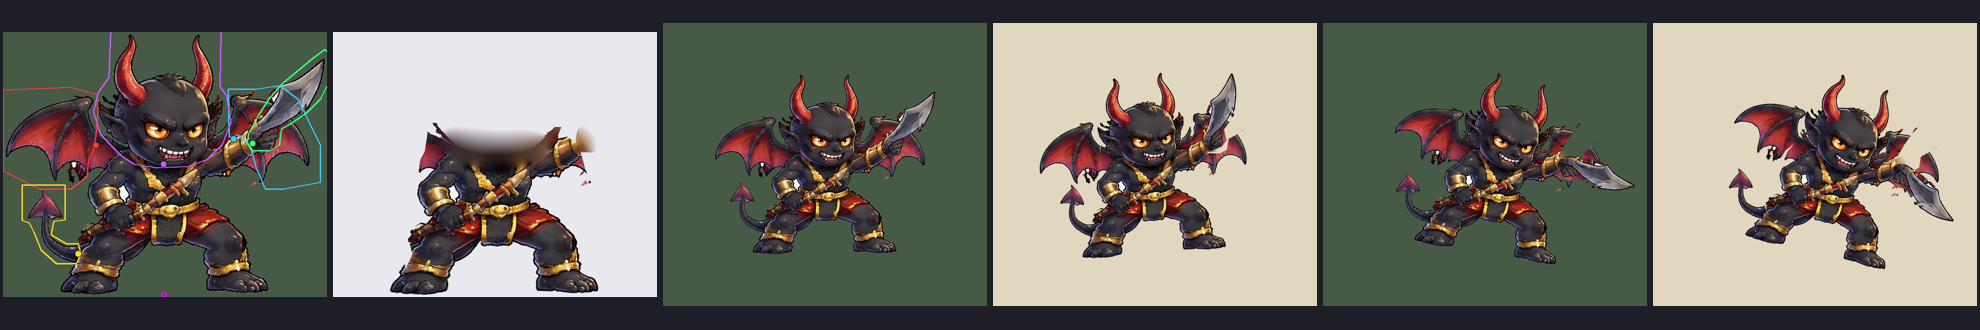
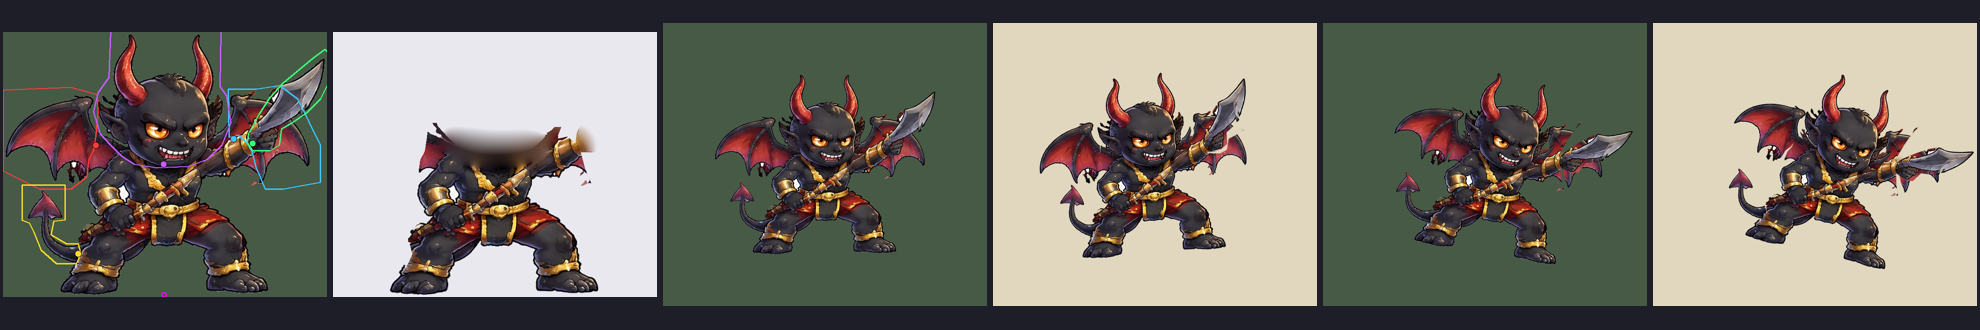
Découpes : lance du démon et marteau du forgeron adoucis, notes v0.25.0
Claude-Session: https://claude.ai/code/session_01StTiAX3jXmzAA526syMXJq

Changed region(s): [[0.7702, 0.3939, 0.8318, 0.5758], [0.9551, 0.4545, 1.0, 0.6667], [0.5854, 0.2424, 0.647, 0.4242]]

diff --git a/src/game/version.ts b/src/game/version.ts
@@ -1,2 +1,2 @@
 // Numéro de version affiché dans les réglages (à changer à chaque mise à jour publiée).
-export const APP_VERSION = '0.24.0';
+export const APP_VERSION = '0.25.0';

diff --git a/CLAUDE.md b/CLAUDE.md
@@ -64,6 +64,12 @@ Google Play. Le propriétaire n'est pas développeur : lui répondre en françai
   cible, étincelles, petite secousse) ; compétences spectaculaires : décor assombri (`dim`), lanceur qui se charge
   (`charge` : rayons, double lumineux, halo `preFX` coupé ensuite), bandeau de cinéma des héros (`cutIn`, pas sur
   l'accueil ni dans la fiche), puis impact (`punch` : éclair de couleur, secousse, zoom, distorsion). Relu par un agent.
+  v0.25.0 : **les 144 personnages sont découpés en morceaux** (tête, bras armé + arme, bouclier, ailes, queue…) qui tournent
+  autour de leurs articulations (repos, attaque, spéciale). Méthode et contrôle : `refonte-graphique/RIG-GUIDE.md` ; un
+  fichier par personnage `refonte-graphique/rig/<id>.json` ; `python3 refonte-graphique/rig.py <id>` (ou `tout`) fabrique
+  `public/art/r/<id>/` (corps rebouché `base.webp` + morceaux) et la planche de contrôle `rig-out/<id>.png` ; puis
+  `art-jeu.py` (champ `rigs` de `art-meta.ts`). Dans le combat : `addView` / `animateParts` de `fight-view.ts`
+  (`act` = attaque ou spéciale en cours).
   Sources Hailuo des terrains et effets : `refonte-graphique/hailuo-v1/terrains-*.jpg`, `effets-*.jpg`.
   Aperçu animé sur le site de test : `public/apercu/` (page à part, bouton « Aperçu des animations » dans les Outils de
   test des réglages) : les personnages v5 animés morceau par morceau. Les images viennent de
